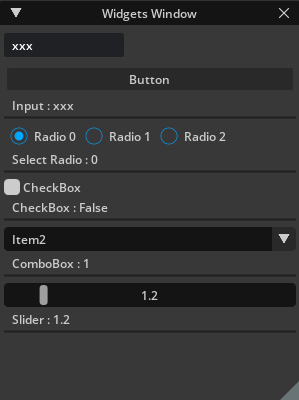
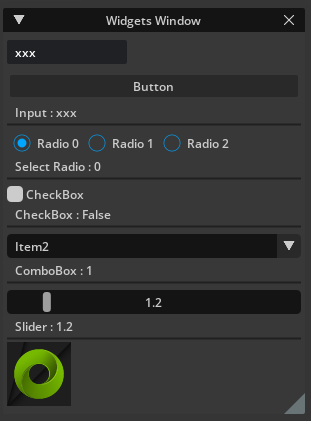
Extensions - ft_lab.sample.widgetsを更新
omni.ui.Imageを使用

diff --git a/Extensions/ft_lab.sample.widgets/ft_lab/sample/widgets/main.py b/Extensions/ft_lab.sample.widgets/ft_lab/sample/widgets/main.py
@@ -1,6 +1,8 @@
 import omni.ext
 import omni.ui
 from pathlib import Path
+import os.path
+import carb.tokens
 
 # ----------------------------------------------------------.
 class WidgetsExtension(omni.ext.IExt):
@@ -198,6 +200,18 @@ class WidgetsExtension(omni.ext.IExt):
                 omni.ui.Spacer(height=4)
                 omni.ui.Line(style={"border_width":2, "color":0xff202020})
                 omni.ui.Spacer(height=4)
+
+                # ------------------------------------------.
+                # Image.
+                # ------------------------------------------.
+                # Kit file path.
+                kitAbsPath = os.path.abspath(carb.tokens.get_tokens_interface().resolve("${kit}"))
+
+                # Load image (RGBA).
+                imagePath = Path(kitAbsPath).joinpath("resources").joinpath("desktop-icons")
+                imagePath = f"{imagePath}/omniverse_64.png"
+
+                omni.ui.Image(imagePath, width=64, height=64)
 
     # ------------------------------------------------.
     # Term window.
